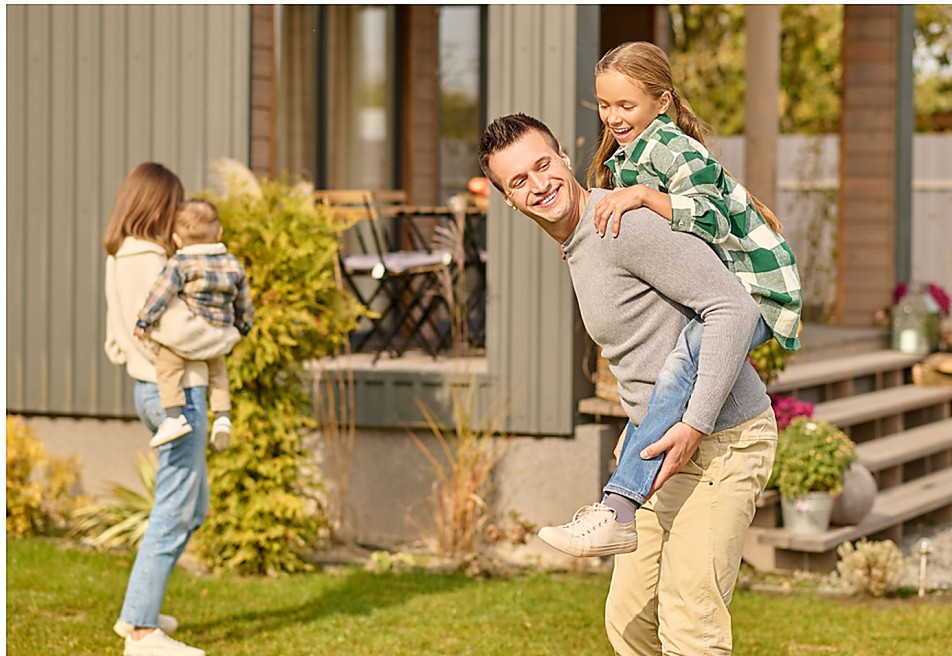
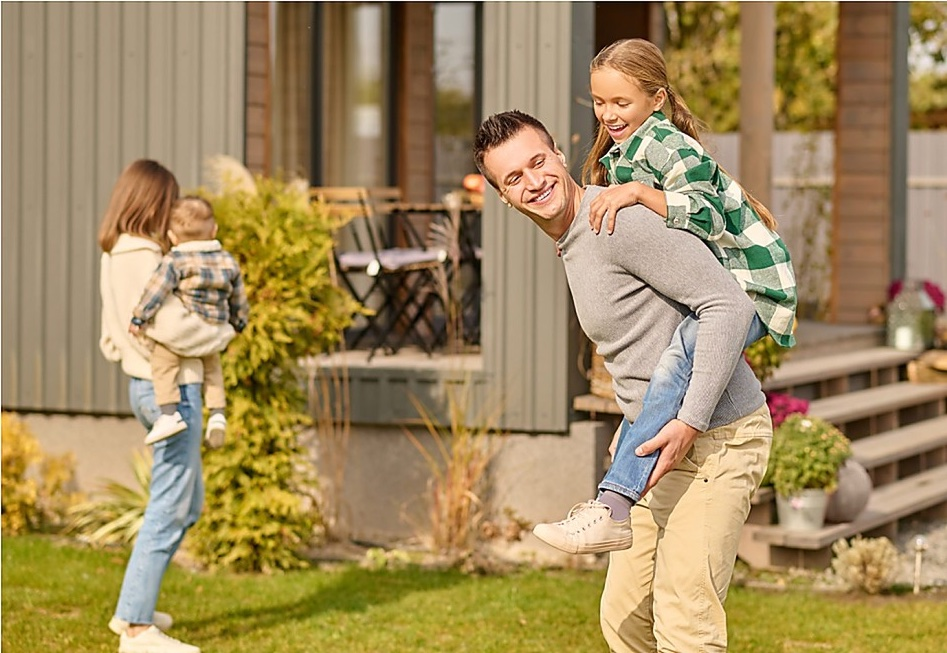
Weiße Ränder aus vier Fotos entfernt, Seitenabschluss neu komponiert
Die Bilder: vier Dateien trugen einen weißen Rand aus der Extraktion aus
dem Layoutdokument — ueberuns-hero am unteren Rand 39px inklusive eines
schwachen Wasserzeichens, dazu schmale Kanten an drei weiteren. Kein
Layout-Fehler: die Datei selbst hatte den Rand. Beschnitten, nicht
skaliert.

Der Abschluss: CTA-Band, Newsletter und Footer waren drei schraffierte
Teal-Blöcke übereinander. Die Schraffur liegt jetzt nur noch im Footer
(voll) und als auslaufende Oberkante im CTA-Band. Der Newsletter ist kein
viertes Vollbild-Band mehr, sondern eine dunkle Karte auf Creme.

Im CTA-Band stand die Aussage allein in der linken Hälfte. Die drei
Zahlen, die über den Klick entscheiden, füllen jetzt die rechte —
dieselben Werte wie die Kosten auf /host-werden, über SERVICE_FEE_RATE
verbunden statt ein zweites Mal getippt.

Claude-Session: https://claude.ai/code/session_01UMJJnxGUBXAV5xpGpCTr8c

diff --git a/components/home/newsletter.tsx b/components/home/newsletter.tsx
@@ -37,43 +37,42 @@ export function Newsletter() {
 
   return (
     /*
-      A teal band, not a white one. This is the only pure conversion block on
-      the page, and it sat between two quiet sections where a faint hatch on
-      cream disappeared entirely. The white card floats on the brand colour with
-      the Schraffur showing through around it; its elevation is a drop-shadow
-      filter rather than box-shadow because clip-path would cut a shadow off.
+      Not a band any more — an object.
+
+      It used to be a full-width teal strip with its own Schraffur, and on
+      /ueber-uns it landed between the teal CTA band and the deep-teal footer:
+      three hatched teal blocks in a row (client, 2026-07-28: „zu viele Linien,
+      im Footer ist gut"). A strip cannot solve that, however it is coloured,
+      because the problem is that three consecutive sections all claim the same
+      full-bleed treatment.
+
+      So the colour moves inside: a deep-teal card on the quiet cream ground.
+      The block still reads as the one conversion moment on the page — it is the
+      darkest thing in view — but it has edges, it sits in the page grid with
+      the footer below it, and the Schraffur is now the footer's alone.
+
+      Elevation is a drop-shadow filter on the wrapper rather than a box-shadow,
+      because the notch is a clip-path and clip-path cuts a box-shadow off.
     */
-    /*
-      The band uses the BRIGHT gradient, not the text-safe one: nothing sits on
-      it directly — the heading, form and confirmation are all inside the white
-      card — so there is no contrast requirement, and the lighter teal is what
-      keeps this strip distinct from the deep-teal footer instead of merging
-      into one continuous block of colour.
-    */
-    <section className="mesh mesh-dark grain relative isolate overflow-hidden [background:var(--grad-teal-bright)] py-[clamp(2.75rem,4vw,4.5rem)]">
-      {/*
-        The white card covers most of this band, so a full-height Schraffur only
-        ever showed in a 2–4rem margin around it, where it read as fraying
-        rather than as the brand's diagonal. It runs along the top edge and
-        dissolves instead — the same treatment as the benefits band above, so
-        the two teal bands announce themselves the same way.
-      */}
-      <span
-        aria-hidden
-        className="hatch-white absolute inset-0 opacity-30 [mask-image:linear-gradient(to_bottom,black_0,black_14%,transparent_42%)]"
-      />
-      <div className="relative container-page">
-        {/*
-          `justify-between` on the full 1520px column pushed the heading and the
-          form to opposite ends with ~480px of nothing between them — on the only
-          pure conversion block of the page. The card is capped and the two parts
-          sit next to each other with a real gap instead.
-        */}
-        <div className="notch notch-lg mx-auto flex max-w-[64rem] flex-col items-start gap-[clamp(1.5rem,3vw,3.5rem)] bg-white p-[clamp(1.5rem,2.6vw,3rem)] [filter:drop-shadow(0_26px_50px_rgba(0,60,56,0.32))] md:flex-row md:items-center">
-        <TabHeading className="text-[clamp(1.15rem,1.5vw+0.5rem,1.75rem)]">
-          Nichts mehr verpassen &amp; zum
-          <br className="hidden sm:block" /> Newsletter anmelden!
+    <section className="relative bg-cream py-[clamp(2.5rem,4vw,4.5rem)]">
+      <div className="container-page">
+        <div className="[filter:drop-shadow(0_24px_44px_rgba(0,60,56,0.22))]">
+        <div className="mesh mesh-dark grain notch notch-lg relative isolate flex flex-col items-start gap-[clamp(1.5rem,3vw,3.5rem)] overflow-hidden [background:var(--grad-teal-deep)] p-[clamp(1.5rem,2.8vw,3.25rem)] text-white md:flex-row md:items-center">
+        <div className="md:w-[min(24rem,40%)]">
+        {/* No manual line break: the column is narrower than the old full-width
+            card, so a hard break landed mid-phrase („Nichts mehr / verpassen &
+            zum"). `text-balance` distributes the three lines evenly instead. */}
+        <TabHeading
+          variant="white"
+          className="text-[clamp(1.15rem,1.5vw+0.5rem,1.75rem)] text-balance"
+        >
+          Nichts mehr verpassen &amp; zum Newsletter anmelden!
         </TabHeading>
+        {/* Says what arrives, before the address is asked for. */}
+        <p className="mt-4 text-[0.9375rem]/[1.6] text-white/80">
+          Neue Flächen, Nachbarschaftsprojekte und was CoArea als Nächstes baut.
+        </p>
+        </div>
 
         {state === "done" ? (
           <div
@@ -113,7 +112,9 @@ export function Newsletter() {
               The radius now lives on the wrapper, which clips both children,
               and the children are square. One shape, one focus state.
             */}
-            <div className="flex items-stretch overflow-hidden rounded-[var(--radius-control)] border border-input transition-colors duration-200 focus-within:border-teal focus-within:ring-2 focus-within:ring-teal/25">
+            {/* On the dark card the neutral input border disappeared, so the
+                pair carries a white outline and a white focus ring. */}
+            <div className="flex items-stretch overflow-hidden rounded-[var(--radius-control)] border border-white/30 bg-white transition-colors duration-200 focus-within:border-white focus-within:ring-2 focus-within:ring-white/40">
               <input
                 id={id}
                 type="email"
@@ -146,25 +147,29 @@ export function Newsletter() {
             {/* Collecting an address without naming the purpose and without a
                 route to the privacy notice is the one thing this form must not
                 do once a backend is behind it. */}
-            <p className="mt-3 text-xs/[1.6] text-ink">
+            <p className="mt-3 text-xs/[1.6] text-white/75">
               Wir schreiben Dir nur zum CoArea-Newsletter und Du kannst jederzeit
               widersprechen. Wie wir mit Deinen Daten umgehen, steht in der{" "}
-              <Link href="/datenschutz" className="underline underline-offset-2 hover:text-teal">
+              <Link href="/datenschutz" className="underline underline-offset-2 hover:text-white">
                 Datenschutzerklärung
               </Link>
               .
             </p>
             {state === "invalid" ? (
+              /* `.field-error` is the destructive red, which on deep teal drops
+                 to around 2:1. The brand gold carries the same alarm at a
+                 contrast a reader can actually resolve. */
               <p
                 id={`${id}-err`}
                 role="alert"
-                className="field-error mt-2 text-xs"
+                className="mt-2 text-xs font-medium text-[var(--gold)]"
               >
                 Bitte gib eine gültige E-Mail-Adresse an.
               </p>
             ) : null}
           </form>
         )}
+        </div>
         </div>
       </div>
     </section>

diff --git a/app/(site)/ueber-uns/page.tsx b/app/(site)/ueber-uns/page.tsx
@@ -1,8 +1,10 @@
 import type { Metadata } from "next"
 import Link from "next/link"
 import Image from "next/image"
+import { ArrowRight } from "lucide-react"
 
 import { cn } from "@/lib/utils"
+import { SERVICE_FEE_RATE } from "@/lib/pricing"
 import { TabHeading } from "@/components/brand/tab-heading"
 import { Benefits } from "@/components/home/benefits"
 import { Testimonials } from "@/components/home/testimonials"
@@ -33,6 +35,30 @@ function Photo({
     </div>
   )
 }
+
+/*
+  The same three figures the Kosten block on /host-werden states, kept in sync
+  through SERVICE_FEE_RATE rather than typed out a second time. Nothing here is
+  a promise the prototype cannot keep: the fee is what `lib/pricing` adds, and
+  the payout line says plainly that no platform payment exists yet.
+*/
+const HOST_FACTS = [
+  {
+    label: "Inserat einstellen",
+    value: "kostenlos",
+    note: "Keine Grundgebühr, keine Laufzeit, keine Mindestdauer.",
+  },
+  {
+    label: "Servicegebühr",
+    value: `${Math.round(SERVICE_FEE_RATE * 100)} %`,
+    note: "Trägt die mietende Person zusätzlich. Dein Preis kommt ungeschmälert bei Dir an.",
+  },
+  {
+    label: "Du entscheidest",
+    value: "jede Anfrage",
+    note: "Zeitraum, Preis und Regeln legst Du selbst fest.",
+  },
+]
 
 const FOUNDERS = [
   {
@@ -163,31 +189,58 @@ export default function UeberUnsPage() {
       <Testimonials />
 
       {/*
-        CTA band. This was a flat `bg-teal` div with a hand-built button, and it
-        sat directly above the teal newsletter strip and the deep-teal footer —
-        three untreated teal blocks in a row that merged into one mass of colour
-        with no edges. It now gets the same deep gradient, blooms, grain and
-        Schraffur as every other band, so the sequence reads
-        deep → bright → deep: alternation rather than mush.
+        CTA band.
 
-        The hatch runs through the whole band (client's instruction,
-        2026-07-26) rather than as a 24px edge; at 20% it stays under the white
-        type sitting on top of it.
+        Two things were wrong with it. The Schraffur ran across the full band at
+        20% — together with the newsletter strip and the footer that made three
+        hatched teal blocks stacked on top of each other, and the drawing stopped
+        reading as a motif and started reading as noise (client, 2026-07-28:
+        „zu viele Linien, im Footer ist gut"). It survives here as a top edge
+        that dissolves, which is enough to tie the band to the footer; the
+        footer keeps the full-strength version.
+
+        And the claim sat alone in the left half of a 1520px column, so half the
+        band was empty teal. The three facts that decide whether anybody clicks
+        „Fläche inserieren" — what it costs, who pays the fee, who decides — now
+        occupy the other half. They are the same numbers the booking calculates,
+        not new promises.
       */}
       <section className="mesh mesh-dark grain relative isolate overflow-hidden [background:var(--grad-teal-deep)] text-white">
-        <span aria-hidden className="hatch-white absolute inset-0 opacity-20" />
-        <div className="relative container-page py-[clamp(3rem,5vw,5.5rem)]">
-          <p className="max-w-3xl text-[clamp(1.3rem,2vw+0.5rem,2rem)] leading-snug font-semibold text-balance">
-            Du hast eine leerstehende Fläche und weißt nicht, was Du mit ihr anfangen
-            sollst? Dann lade noch heute Deine CoArea hoch und teile sie mit der
-            Community!
-          </p>
-          <Link
-            href="/host-werden"
-            className="btn mt-8 bg-white px-7 py-3.5 text-[15px] text-teal shadow-[var(--shadow-md)] hover:-translate-y-0.5"
-          >
-            Fläche inserieren
-          </Link>
+        <span
+          aria-hidden
+          className="hatch-white absolute inset-x-0 top-0 h-48 opacity-25 [mask-image:linear-gradient(to_bottom,black_0,transparent_100%)]"
+        />
+        <div className="relative container-page grid gap-[clamp(2rem,3.5vw,4rem)] py-[clamp(3rem,5vw,5.5rem)] lg:grid-cols-[minmax(0,1fr)_minmax(0,0.9fr)] lg:items-center">
+          <div>
+            <p className="max-w-[26ch] text-[clamp(1.3rem,2vw+0.5rem,2rem)] leading-snug font-semibold text-balance">
+              Du hast eine leerstehende Fläche und weißt nicht, was Du mit ihr
+              anfangen sollst? Dann teile sie mit der Community.
+            </p>
+            <Link
+              href="/host-werden"
+              className="btn group mt-8 bg-white px-7 py-3.5 text-[15px] text-teal shadow-[var(--shadow-md)] hover:-translate-y-0.5"
+            >
+              Fläche inserieren
+              <span className="arrow-nudge inline-flex">
+                <ArrowRight className="h-4 w-4" />
+              </span>
+            </Link>
+          </div>
+
+          <ul className="grid gap-px overflow-hidden rounded-[var(--radius)] bg-white/20 ring-1 ring-white/20">
+            {HOST_FACTS.map((f) => (
+              <li
+                key={f.label}
+                className="flex flex-wrap items-baseline gap-x-3 gap-y-1 bg-teal-900/40 px-5 py-4 backdrop-blur-[2px]"
+              >
+                <span className="text-[0.9375rem] font-semibold text-white">{f.label}</span>
+                <span className="ml-auto text-[0.9375rem] font-bold text-white tabular-nums">
+                  {f.value}
+                </span>
+                <span className="w-full text-[13px]/[1.5] text-white/75">{f.note}</span>
+              </li>
+            ))}
+          </ul>
         </div>
       </section>
 
